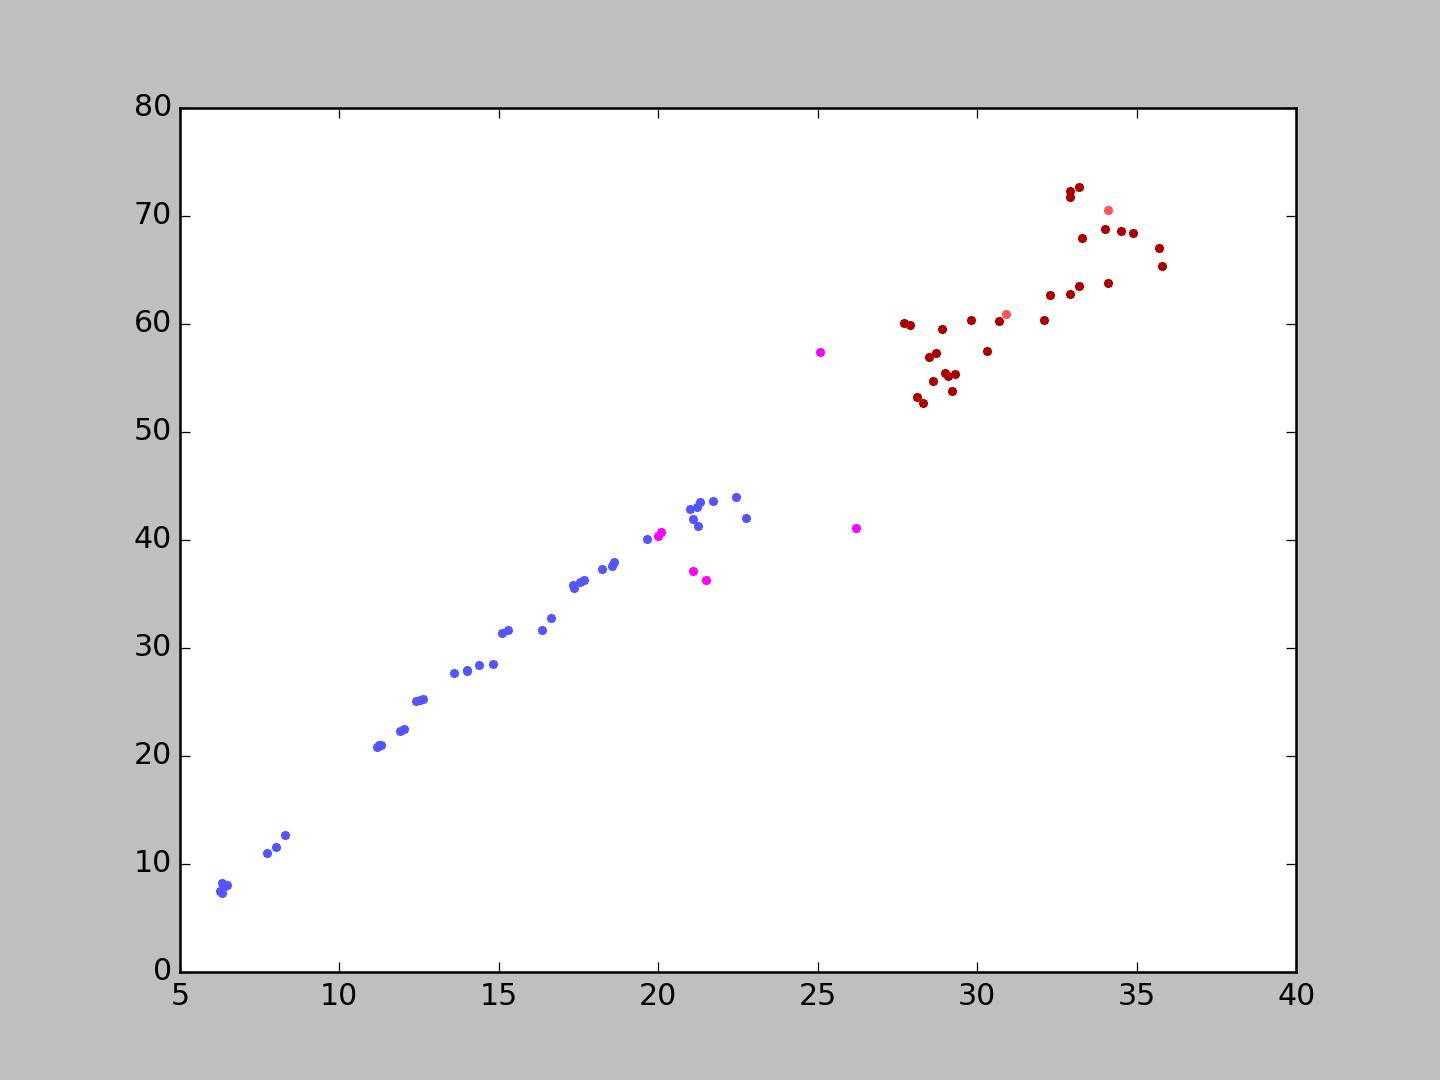
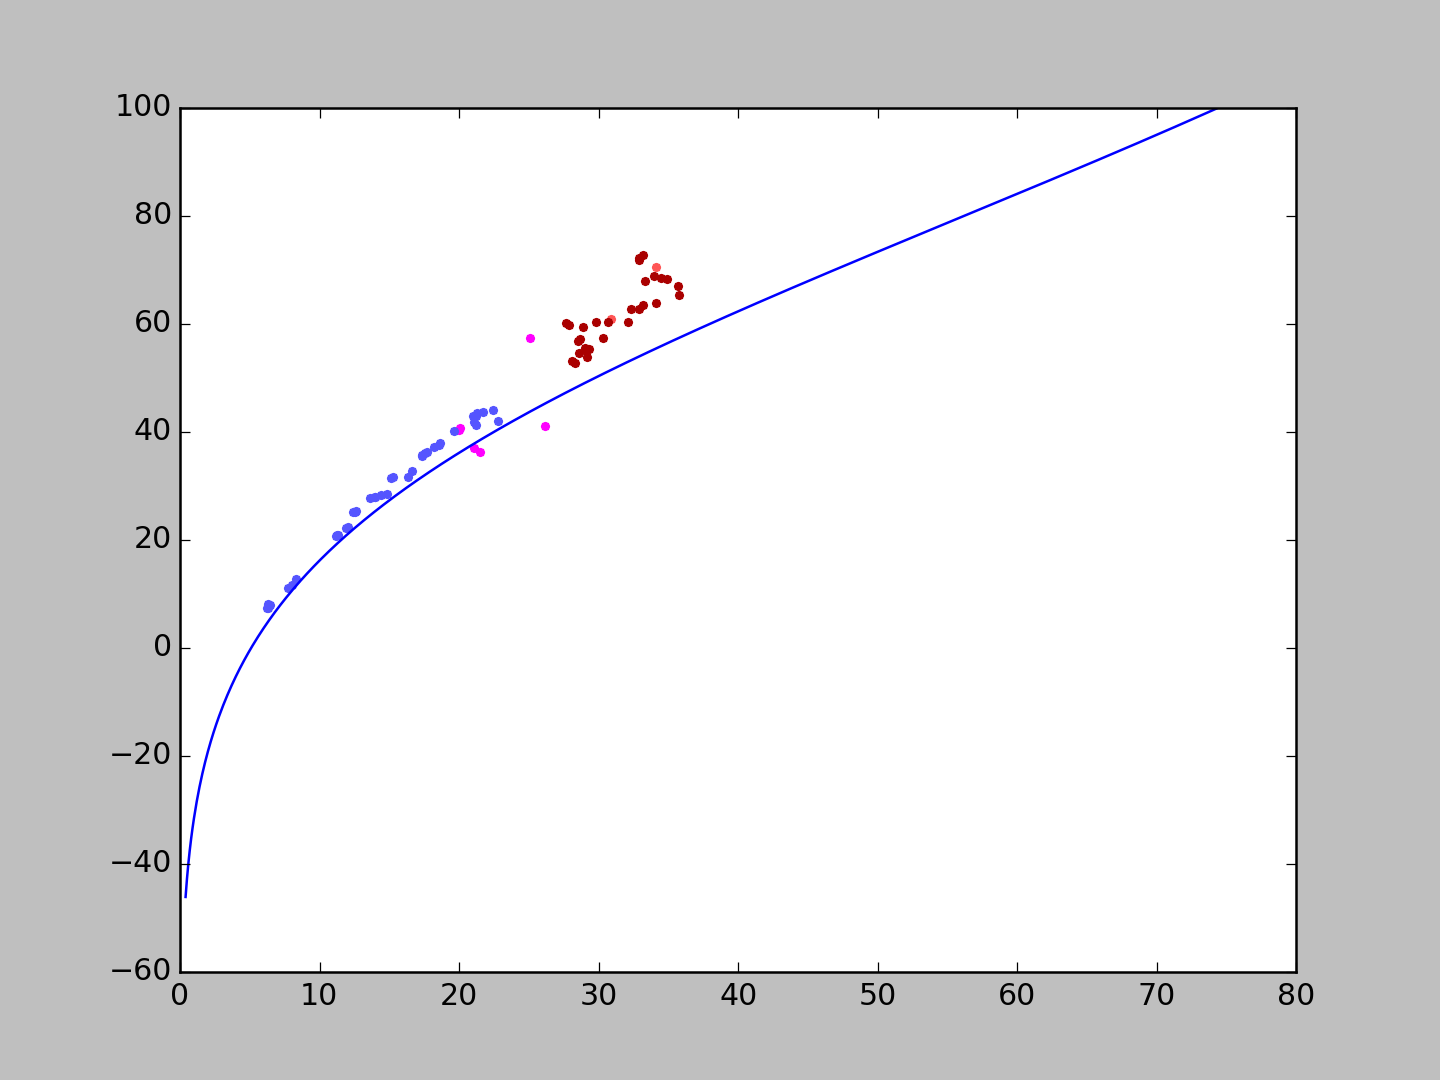
Draw approximation curves

diff --git a/thermometer-calibration/plot.py b/thermometer-calibration/plot.py
@@ -5,6 +5,28 @@ from matplotlib.figure import Figure
 import numpy
 import math
 
+def beta(cold=-50., hot=100., frequency_step=.1):
+    a = 3470.
+    b = 1100.
+    c = 139.574
+    d = 2.4281
+    
+    f_list = []
+    T_list = []
+    f = 0.0
+    while True:
+        f += frequency_step
+        T = a/(math.log(-b*(f-c)/f) + d) - 273.15
+        if T < cold:
+            continue
+        if T > hot:
+            break
+        f_list.append(f)
+        T_list.append(T)
+    
+    return f_list, T_list
+    
+
 def main():
     fig = Figure()
     canvas = FigureCanvas(fig)
@@ -18,6 +40,7 @@ def main():
     }
     for f, T, key in data:
         ax.plot(float(f), float(T), marker='.', color=colors[key])
+    ax.plot(*beta())
     fig.set_dpi(180)
     canvas.print_png('plot.png')
 
